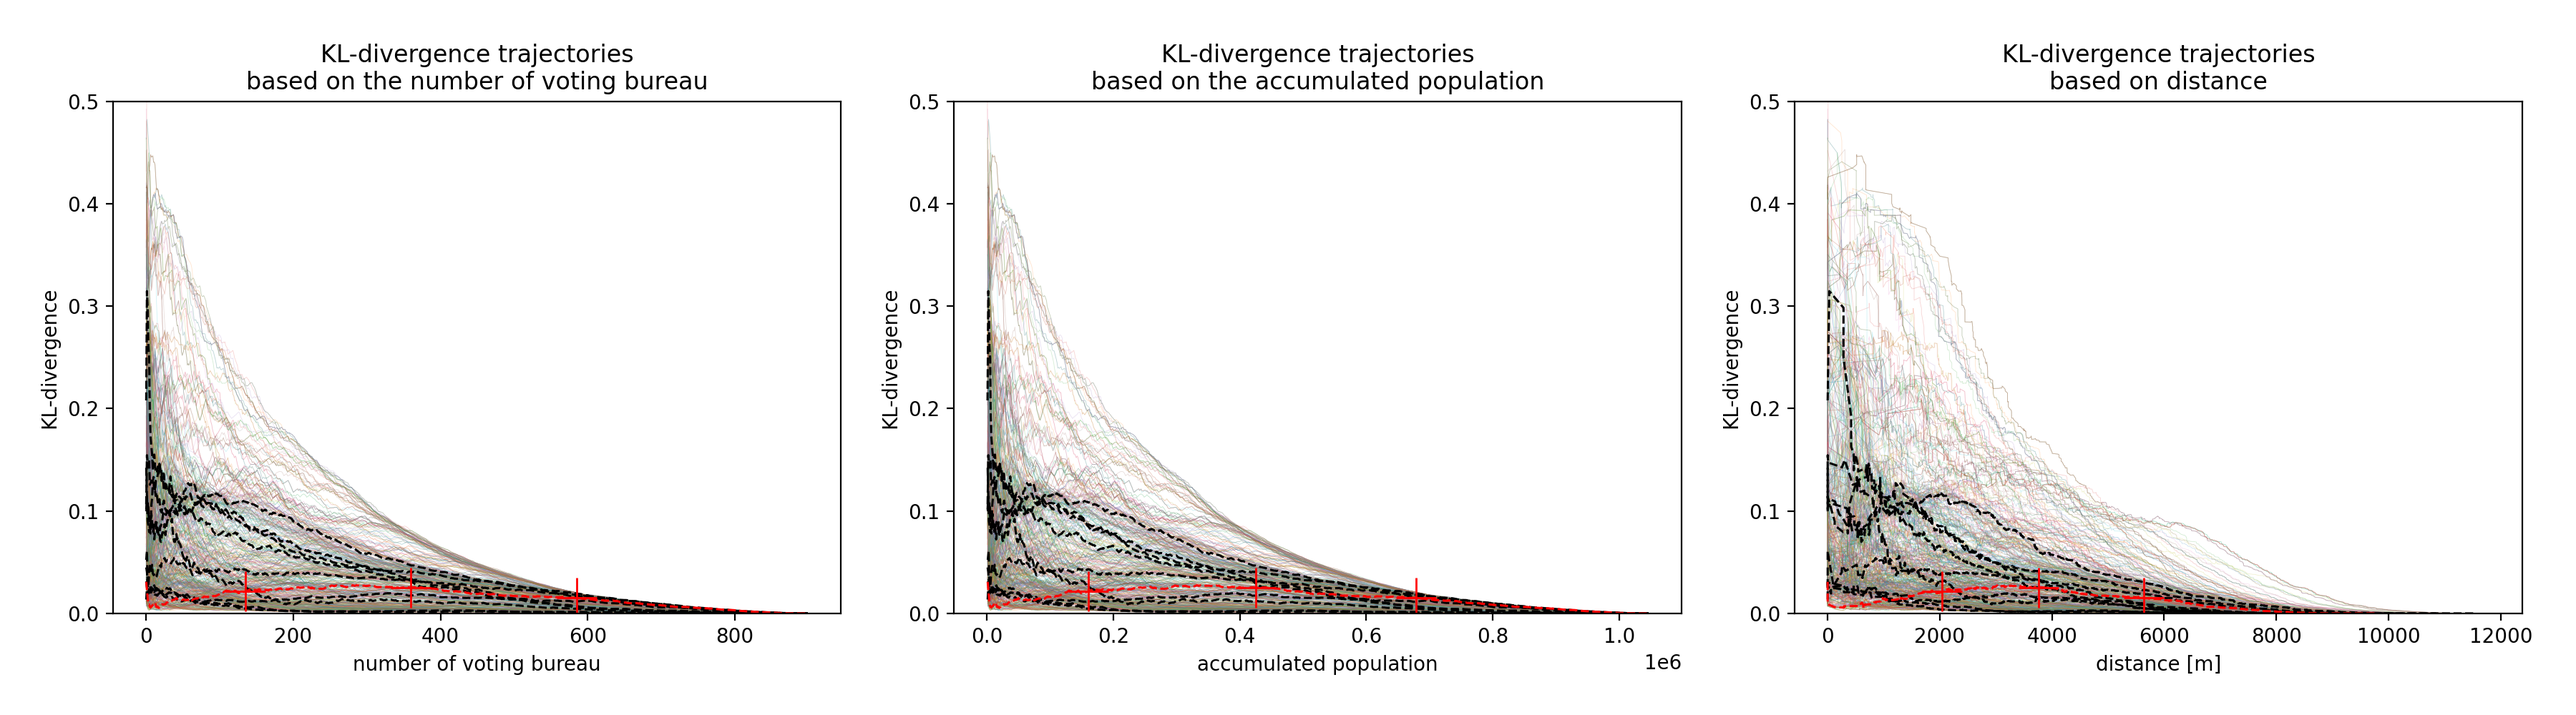
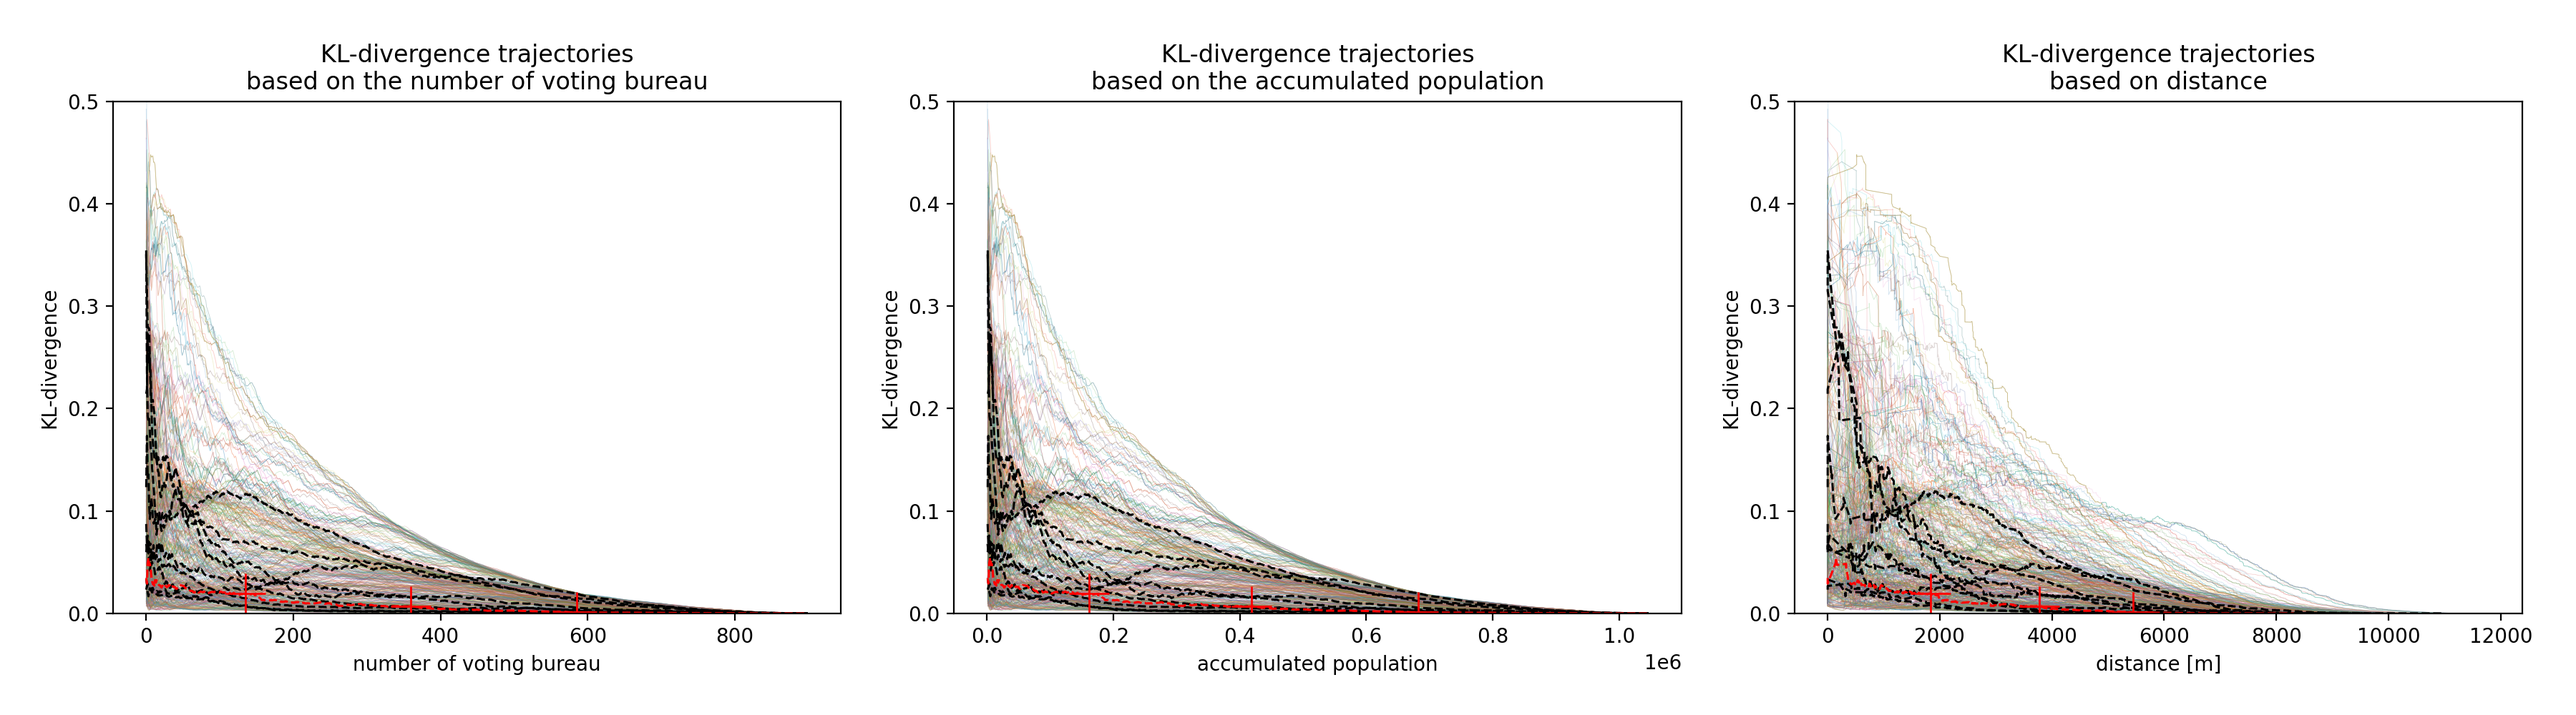
update

diff --git a/postprocessing/postprocessing_simulation_3_convergence_time.py b/postprocessing/postprocessing_simulation_3_convergence_time.py
@@ -51,7 +51,10 @@ output_file = config["output_file_convergence_time"]
 
 base_path_figure = "figures/" + config["convergence_time"]["postprocessing"]["base_filename"]
 
-interesting_candidates = config["convergence_time"]["postprocessing"]["interesting_candidates"]
+interesting_candidates  = config["convergence_time"]["postprocessing"]["interesting_candidates"]
+kldiv_clip_percentile   = config["convergence_time"]["postprocessing"]["kl-div_clip_percentile"]
+dist_coef_clip_lims     = config["convergence_time"]["postprocessing"]["dist_coef_clip_lims"]
+dist_coef_map_clip_lims = config["convergence_time"]["postprocessing"]["dist_coef_map_clip_lims"]
 
 N_try      = config["convergence_time"]["N_try"]
 N_it       = config["convergence_time"]["N_it"]
@@ -114,7 +117,7 @@ with h5py.File(base_path + output_file, "r") as file:
 		for j,(begin,end) in enumerate(zip(focal_distances_begin_end[:-1], focal_distances_begin_end[1:])):
 			focal_distances[i, j, :] = file[state_name][field_name][begin:end]
 
-		distortion_coefs[i, :] = file[state_name]["distortion_coefs"]
+		distortion_coefs[i, :] = np.clip(file[state_name]["distortion_coefs"], *dist_coef_clip_lims)
 
 """ -------------------------------------------------------
 -----------------------------------------------------------
@@ -159,7 +162,7 @@ for i_ax in range(3):
 			                "k--", alpha=1, linewidth=1.1)
 		else:
 			axes[i_ax].plot(iterations_saved, simulation_data[0, interesting_candidates[i_ax], node, :],
-				            "-", alpha=0.2, linewidth=0.3)
+				            "-", alpha=0.3, linewidth=0.3)
 
 	axes[i_ax].set_title(f"Voting trajectory for { candidates[interesting_candidates[i_ax]] }")
 	axes[i_ax].set_ylabel("vote proportion")
@@ -181,16 +184,20 @@ fig, ax = plt.subplots(1, 1, figsize=(8,8))
 
 for i,node in enumerate(nodes):
 	if N_nodes-i <= 10:
-		ax.plot(iterations_saved, KL_trajectories[0, node, :],
+		ax.plot(iterations_saved[:-1], KL_trajectories[0, node, :-1],
 		        "k--", alpha=1, linewidth=1.1)
 	else:
-		ax.plot(iterations_saved, KL_trajectories[0, node, :],
+		ax.plot(iterations_saved[:-1], KL_trajectories[0, node, :-1],
 		        "-", alpha=0.2, linewidth=0.3)
 
 ax.set_title("KL-divergence trajectory between the\ni-th state and the final state")
 ax.set_ylabel("KL-divergence")
 ax.set_xlabel("number of steps")
 ax.set_yscale("log")
+ax.set_ylim([
+		np.percentile(KL_trajectories[0, :, -2], kldiv_clip_percentile[0])*0.8,
+		np.percentile(KL_trajectories[0, :,  0], kldiv_clip_percentile[1])/0.8,
+	])
 
 fig.savefig(base_path_figure + "kl-div_trajectory.png", dpi=200)
 
@@ -209,7 +216,7 @@ for i,node in enumerate(nodes):
 		        "k--", alpha=1, linewidth=1.1)
 	else:
 		ax.plot(convergence_thresholds, iterations_saved[focal_distances[0, node, :].astype(np.int32)],
-		        "-", alpha=0.2, linewidth=0.3)
+		        "-", alpha=0.3, linewidth=0.4)
 
 ax.set_title("Focal time trajectory")
 ax.set_ylabel("focal time")
@@ -227,8 +234,12 @@ fig.savefig(base_path_figure + "focal_time_trajectory.png", dpi=200)
 fig, ax = plt.subplots(1, 1, figsize=(8,8))
 
 
-ax.hist(np.clip(np.mean(distortion_coefs, axis=0), 0, 9))
+ax.hist(np.mean(distortion_coefs, axis=0),
+	density=True, label="mean distortion coefs per node over tries")
+ax.hist(distortion_coefs.flatten(),
+	density=True, label="distortion coefs", alpha=0.3)
 
+ax.legend()
 ax.set_title("Pseudo-distortion coefficient distribution")
 ax.set_ylabel("Number of nodes")
 ax.set_xlabel("Pseudo-distortion coefficient")
@@ -244,8 +255,12 @@ fig.savefig(base_path_figure + "histograms.png", dpi=200)
 
 fig, ax = plt.subplots(1, 1, figsize=(9,8))
 
-pl = ax.scatter(longitude, latitude, c=np.clip(np.mean(distortion_coefs, axis=0), 0, 9), s=30, alpha=0.5)
-pl = ax.scatter(longitude, latitude, c=np.clip(np.mean(distortion_coefs, axis=0), 0, 9), s=10)
+pl = ax.scatter(longitude, latitude,
+	c=np.clip(np.mean(distortion_coefs, axis=0), *dist_coef_map_clip_lims),
+	s=40, alpha=0.5)
+pl = ax.scatter(longitude, latitude,
+	c=np.clip(np.mean(distortion_coefs, axis=0), *dist_coef_map_clip_lims),
+	s=20)
 
 cbar = fig.colorbar(pl, label="pseudo-distortion coefficient")
 
@@ -286,9 +301,24 @@ with h5py.File(base_path + output_file, "r") as file:
 fig, (ax1, ax2, ax3) = plt.subplots(1, 3, figsize=(18,5))
 
 
-ax1.plot(dist_coef, np.clip(np.mean(distortion_coefs, axis=0), 0, 9), "+")
 
-ax1.set_title("normalized distortion coefficient\nbased on number of voting bureau versus\nbased on agregated population")
+ax1.plot(np.repeat(dist_coef, N_try), distortion_coefs.flatten(),
+	"xC1", label="raw value", alpha=1.5/N_try, markersize=2)
+ax1.plot(dist_coef,                   np.mean(distortion_coefs, axis=0),
+	"+C0", label="average per node over tries")
+
+reg_time_vs_idx = LinearRegression().fit(
+	np.expand_dims(dist_coef,                         1),
+	np.expand_dims(np.mean(distortion_coefs, axis=0), 1))
+score_time_vs_idx = reg_time_vs_idx.score(
+	np.expand_dims(dist_coef,                         1),
+	np.expand_dims(np.mean(distortion_coefs, axis=0), 1))
+X = np.linspace(min(dist_coef), max(dist_coef), 100)
+ax1.plot(X, reg_time_vs_idx.intercept_ + X*reg_time_vs_idx.coef_[0][0], "--r",
+	 	 label=f"linear fit, R²={ round(score_time_vs_idx, 3) },\ncoef = { round(reg_time_vs_idx.coef_[0][0], 3) }")
+
+ax1.legend(prop={'size': 8})
+ax1.set_title("normalized distortion coefficient\nbased on number of voting bureau versus\nbased on number of voting bureau")
 ax1.set_ylabel("distortion coefficient [based on convegrence time]")
 ax1.set_xlabel("distortion coefficient [based on number of voting bureau]")
 
@@ -296,8 +326,24 @@ ax1.set_xlabel("distortion coefficient [based on number of voting bureau]")
 -----------------------------------------------------------
 ------------------------------------------------------- """
 
-ax2.plot(dist_coef_pop, np.clip(np.mean(distortion_coefs, axis=0), 0, 9), "+")
 
+ax2.plot(np.repeat(dist_coef_pop, N_try), distortion_coefs.flatten(),
+	"xC1", label="raw value", alpha=1.5/N_try, markersize=2)
+ax2.plot(dist_coef_pop,                   np.mean(distortion_coefs, axis=0),
+	"+C0", label="average per node over tries")
+
+reg_time_vs_pop = LinearRegression().fit(
+	np.expand_dims(dist_coef_pop,                         1),
+	np.expand_dims(np.mean(distortion_coefs, axis=0), 1))
+score_time_vs_pop = reg_time_vs_pop.score(
+	np.expand_dims(dist_coef_pop,                         1),
+	np.expand_dims(np.mean(distortion_coefs, axis=0), 1))
+X = np.linspace(min(dist_coef_pop), max(dist_coef_pop), 100)
+ax2.plot(X, reg_time_vs_pop.intercept_ + X*reg_time_vs_pop.coef_[0][0], "--r",
+	 	 label=f"linear fit, R²={ round(score_time_vs_pop, 3) },\ncoef = { round(reg_time_vs_pop.coef_[0][0], 3) }")
+
+
+ax2.legend(prop={'size': 8})
 ax2.set_title("normalized distortion coefficient\nbased on distance versus\nbased on agregated population")
 ax2.set_ylabel("distortion coefficient [based on convegrence time]")
 ax2.set_xlabel("distortion coefficient [based on agregated population]")
@@ -306,9 +352,23 @@ ax2.set_xlabel("distortion coefficient [based on agregated population]")
 -----------------------------------------------------------
 ------------------------------------------------------- """
 
-ax3.plot(dist_coef_dist, np.clip(np.mean(distortion_coefs, axis=0), 0, 9), "+")
+ax3.plot(np.repeat(dist_coef_dist, N_try), distortion_coefs.flatten(),
+	"xC1", label="raw value", alpha=1.5/N_try, markersize=2)
+ax3.plot(dist_coef_dist,                   np.mean(distortion_coefs, axis=0),
+	"+C0", label="average per node over tries")
 
-ax3.set_title("normalized distortion coefficient\nbased on distance versus\nbased on agregated population")
+reg_time_vs_dist = LinearRegression().fit(
+	np.expand_dims(dist_coef_dist,                         1),
+	np.expand_dims(np.mean(distortion_coefs, axis=0), 1))
+score_time_vs_dist = reg_time_vs_dist.score(
+	np.expand_dims(dist_coef_dist,                         1),
+	np.expand_dims(np.mean(distortion_coefs, axis=0), 1))
+X = np.linspace(min(dist_coef_dist), max(dist_coef_dist), 100)
+ax3.plot(X, reg_time_vs_dist.intercept_ + X*reg_time_vs_dist.coef_[0][0], "--r",
+	 	 label=f"linear fit, R²={ round(score_time_vs_dist, 3) },\ncoef = { round(reg_time_vs_dist.coef_[0][0], 3) }")
+
+ax3.legend(prop={'size': 8})
+ax3.set_title("normalized distortion coefficient\nbased on distance versus\nbased on distance")
 ax3.set_ylabel("distortion coefficient [based on convegrence time]")
 ax3.set_xlabel("distortion coefficient [based on distance]")
 

diff --git a/computation/segregation.cpp b/computation/segregation.cpp
@@ -36,10 +36,13 @@ int main(int argc, char *argv[]) {
 	const std::string input_file_name  = root + std::string(config["preprocessed_file"      ].asString());
 	const std::string output_file_name = root + std::string(config["output_file_segregation"].asString());
 
-	const int N_full_analyze = config["segregation"]["N_full_analyze"].asInt();
-	const int N_thresh       = config["segregation"]["N_thresh"      ].asInt();
+	const int    N_full_analyze = config["segregation"]["N_full_analyze"].asInt();
+	const int    N_thresh       = config["segregation"]["N_thresh"      ].asInt();
+	const int    N_thresh       = config["segregation"]["N_thresh"      ].asInt();
+	const double thresh_min     = config["segregation"]["tresh_lims"    ][0].asDouble();
+	const double thresh_max     = config["segregation"]["tresh_lims"    ][1].asDouble();
 
-	const auto convergence_thresholds = util::math::logspace<double>(1e-7d, 9.d, N_thresh);
+	const auto convergence_thresholds = util::math::logspace<double>(thresh_min, thresh_max, N_thresh);
 
 
 	H5::H5File output_file(output_file_name.c_str(), H5F_ACC_TRUNC);

diff --git a/computation/simulation_3_convergence_time.cpp b/computation/simulation_3_convergence_time.cpp
@@ -64,9 +64,11 @@ int main(int argc, char *argv[]) {
 	const bool read_network_from_file = config["convergence_time"]["read_network_from_file"].asBool();
 	const int  n_attachment           = config["convergence_time"]["n_attachment"          ].asInt();
 
-	const int N_thresh = config["convergence_time"]["N_thresh"].asInt();
+	const int    N_thresh   = config["convergence_time"]["N_thresh"  ].asInt();
+	const double thresh_min = config["convergence_time"]["tresh_lims"][0].asDouble();
+	const double thresh_max = config["convergence_time"]["tresh_lims"][1].asDouble();
 
-	const auto convergence_thresholds = util::math::logspace<double>(1e-7d, 1.5d, N_thresh);
+	const auto convergence_thresholds = util::math::logspace<double>(thresh_min, thresh_max, N_thresh);
 
 
 	H5::H5File output_file(output_file_name, H5F_ACC_TRUNC);
